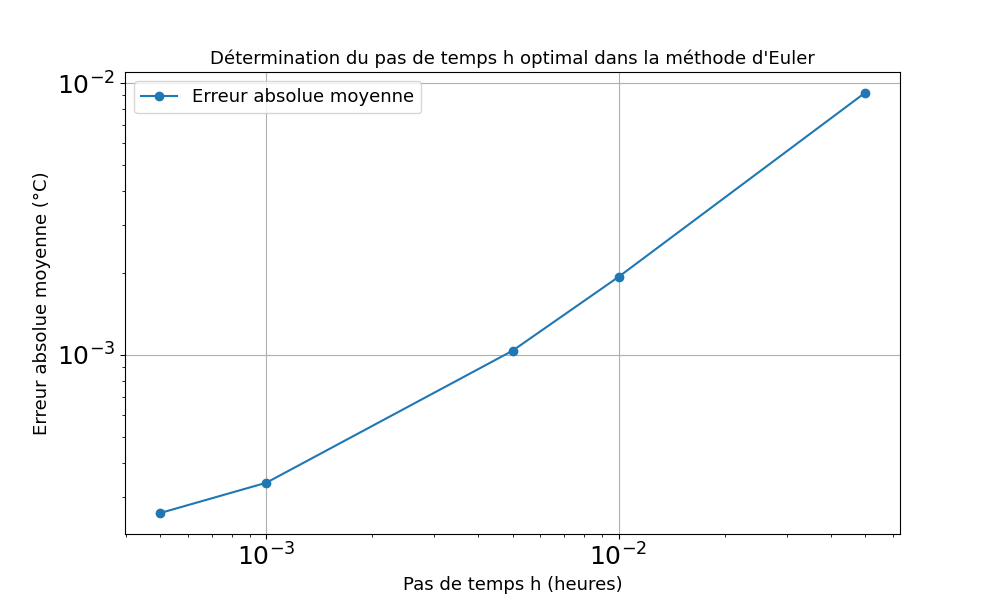
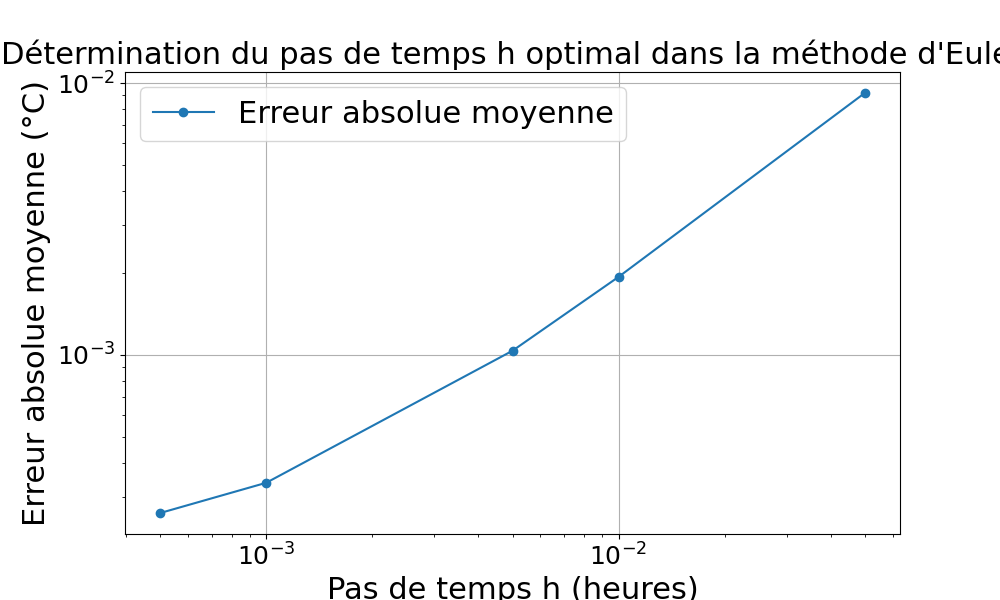
chore: change plots (encore)

diff --git a/SimTABS.py b/SimTABS.py
@@ -104,11 +104,11 @@ color_euler = ['darkgreen', 'darkblue', 'darkred', 'goldenrod', 'purple']
 plt.figure(figsize=(10, 6))
 for k in range(len(T0)):
     plt.plot(Euler[0], Euler[1][k, :], 'o-', color=color_euler[k], markersize=0.5, label="Euler - T_"+nom_T_x[k]) # Tracer Euler
-plt.xlabel("Temps (h)", fontsize=13)
-plt.ylabel("Température finale de la pièce (°C)", fontsize=13)
-plt.title("Résultats obtenus avec la méthode d'Euler", fontsize=13)
+plt.xlabel("Temps (h)", fontsize=22)
+plt.ylabel("Température finale de la pièce (°C)", fontsize=22)
+plt.title("Résultats obtenus avec la méthode d'Euler", fontsize=22)
 plt.grid(True)
-plt.legend(loc='upper left', bbox_to_anchor=(80/plt.gcf().dpi, 70/plt.gcf().dpi))
+plt.legend()
 plt.show()
     
 
@@ -130,11 +130,11 @@ color_ivp = ['limegreen', 'dodgerblue', 'red', 'yellow', 'magenta']
 plt.figure(figsize=(10, 6))
 for k in range(len(T0)):
     plt.plot(IVP[0], IVP[1][k, :], 'o-', color=color_ivp[k], markersize=0.5, label="RK45 - T_"+nom_T_x[k])
-plt.xlabel("Temps (h)", fontsize=13)
-plt.ylabel("Température finale de la pièce (°C)", fontsize=13)
-plt.title("Résultats obtenus avec la méthode IVP", fontsize=13)
+plt.xlabel("Temps (h)", fontsize=22)
+plt.ylabel("Température finale de la pièce (°C)", fontsize=22)
+plt.title("Résultats obtenus avec la méthode IVP", fontsize=22)
 plt.grid(True)
-plt.legend(loc='upper left', bbox_to_anchor=(80/plt.gcf().dpi, 70/plt.gcf().dpi))
+plt.legend()
 plt.show()
     
 # Question 3.4 #############################################################################################################
@@ -166,10 +166,10 @@ def comparaisonEulerIVP(t_ref, T_ref, h_test) :
     # Échelle logarithmique pour mieux visualiser la convergence
     plt.xscale('log')  
     plt.yscale('log')
-    plt.xlabel("Pas de temps h (heures)", fontsize=13)
-    plt.ylabel("Erreur absolue moyenne (°C)", fontsize=13)
-    plt.title("Détermination du pas de temps h optimal dans la méthode d'Euler", fontsize=13)
-    plt.legend(fontsize=13)
+    plt.xlabel("Pas de temps h (heures)", fontsize=22)
+    plt.ylabel("Erreur absolue moyenne (°C)", fontsize=22)
+    plt.title("Détermination du pas de temps h optimal dans la méthode d'Euler", fontsize=22)
+    plt.legend(fontsize=22)
     plt.grid()
     plt.show()
     
@@ -274,11 +274,11 @@ plt.xticks(np.linspace(t_f[0], t_f[-1], 10))  # Divise la grille en 8 parts vert
 
 plt.plot(t_f, T_f[:, 0], 'o-', markersize=5, label="T_room") # Tracer 
 plt.plot(t_f, T_f[:, 4], 'o-', markersize=5, label="T_c2") # Tracer T_c2
-plt.xlabel("Temps (jours)", fontsize=13)
-plt.ylabel("Température finale de la pièce (°C)", fontsize=13)
-plt.title("Convergence vers l'état stationnaire", fontsize=13)
+plt.xlabel("Temps (jours)", fontsize=22)
+plt.ylabel("Température finale de la pièce (°C)", fontsize=22)
+plt.title("Convergence vers l'état stationnaire", fontsize=22)
 plt.grid(True)
-plt.legend(fontsize=13)
+plt.legend(fontsize=22)
 plt.show()
     
 # Question 3.6 #########################################################################################################
@@ -595,11 +595,11 @@ plt.xticks(np.linspace(t_4[0], t_4[-1], 9))  # Divise la grille en 8 parts verti
 plt.plot(t_4, T_confort, 'o-', markersize=3, label="Température de confort")
 plt.plot(t_max_plot, T_max,'ro', markersize=8)
 plt.axhline(y=T_max, color='r', linestyle='--', label=f"T_max = {T_max:.2f}°C")
-plt.xlabel("Temps (heures)", fontsize=13)
-plt.ylabel("Température de confort (°C)", fontsize=13)
-plt.title(f"Évolution de la température de confort pour ∆t = {delta_t}", fontsize=13)
+plt.xlabel("Temps (heures)", fontsize=22)
+plt.ylabel("Température de confort (°C)", fontsize=22)
+plt.title(f"Évolution de la température de confort pour ∆t = {delta_t}", fontsize=22)
 plt.grid(True)
-plt.legend(fontsize=13)
+plt.legend(fontsize=22)
 plt.show()
 
 
@@ -644,11 +644,11 @@ plt.plot(t_4, T_confort, 'o-', markersize=3, label="Température de confort")
 plt.plot(t_max_plot, T_max_final, 'ro', markersize=8, label="T_max atteint")
 plt.axhline(y=T_max_d, color='g', linestyle='--', label=f"T_max désirée = {T_max_d}°C")
 plt.axhline(y=T_max_final, color='r', linestyle='--', label=f"T_max atteinte = {T_max_final:.2f}°C")
-plt.xlabel("Temps (heures)", fontsize=13)
-plt.ylabel("Température de confort (°C)", fontsize=13)
-plt.title(f"Évolution de la température de confort pour ∆t optimal = {delta_t_optimal:.2f} heures", fontsize=13)
+plt.xlabel("Temps (heures)", fontsize=22)
+plt.ylabel("Température de confort (°C)", fontsize=22)
+plt.title(f"Évolution de la température de confort pour ∆t optimal = {delta_t_optimal:.2f} heures", fontsize=22)
 plt.grid(True)
-plt.legend(fontsize=13)
+plt.legend(fontsize=22)
 plt.show()   
 
 # QUESTION 4.3 ##############################################################################################################
@@ -845,11 +845,11 @@ plt.axhline(y=24, color='r', linestyle='--', label='Limite supérieure (24°C)')
 plt.axhline(y=19.5, color='g', linestyle='--', label='Limite inférieure (19.5°C)')
 plt.axvline(x=8, color='gray', linestyle=':', label='Période 8h-19h')
 plt.axvline(x=19, color='gray', linestyle=':')
-plt.xlabel("Heure de la journée", fontsize=13)
-plt.ylabel("Température de confort (°C)", fontsize=13)
-plt.title("Température de confort - Dernier jour", fontsize=13)
+plt.xlabel("Heure de la journée", fontsize=22)
+plt.ylabel("Température de confort (°C)", fontsize=22)
+plt.title("Température de confort - Dernier jour", fontsize=22)
 plt.grid(True)
-plt.legend(loc='lower right', fontsize=13)
+plt.legend(loc='lower right', fontsize=22)
 plt.show()
 
 

diff --git a/PerteEtGain.py b/PerteEtGain.py
@@ -47,11 +47,11 @@ plt.figure(figsize=(10, 6))  # Définit une taille pour éviter les problèmes d
 plt.xticks(np.linspace(t[0], t[-1], 9))  # Divise la grille en 8 parts verticales égales
 plt.plot(heure, flux_chaleur, 'o', label = "Données initiales" )
 plt.plot(t, g(t), label = "Interpolation par spline cublique"  )
-plt.title("Évolution du flux de chaleur, G(t), en fonction du moment de la journée", fontsize=14)
+plt.title("Évolution du flux de chaleur, G(t), en fonction du moment de la journée", fontsize=22)
 plt.grid(True)
-plt.xlabel("Heure (h)", fontsize=13)
-plt.ylabel("Flux de chaleur (W/m²)", fontsize=13)
-plt.legend(fontsize=13)
+plt.xlabel("Heure (h)", fontsize=22)
+plt.ylabel("Flux de chaleur (W/m²)", fontsize=22)
+plt.legend(fontsize=22)
 plt.show()
 
 def G(t):
